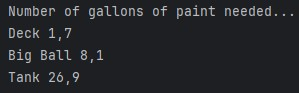
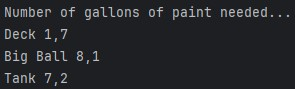
Fix Kode

diff --git a/PRAK5/soal1/Cylinder.java b/PRAK5/soal1/Cylinder.java
@@ -11,7 +11,7 @@ public class Cylinder extends Shape {
 
     public double area()
     {
-        return Math.PI * Math.pow(radius, 2) * height;
+        return 2 * Math.PI * radius * (height + radius);
     }
 
     public String toString()
